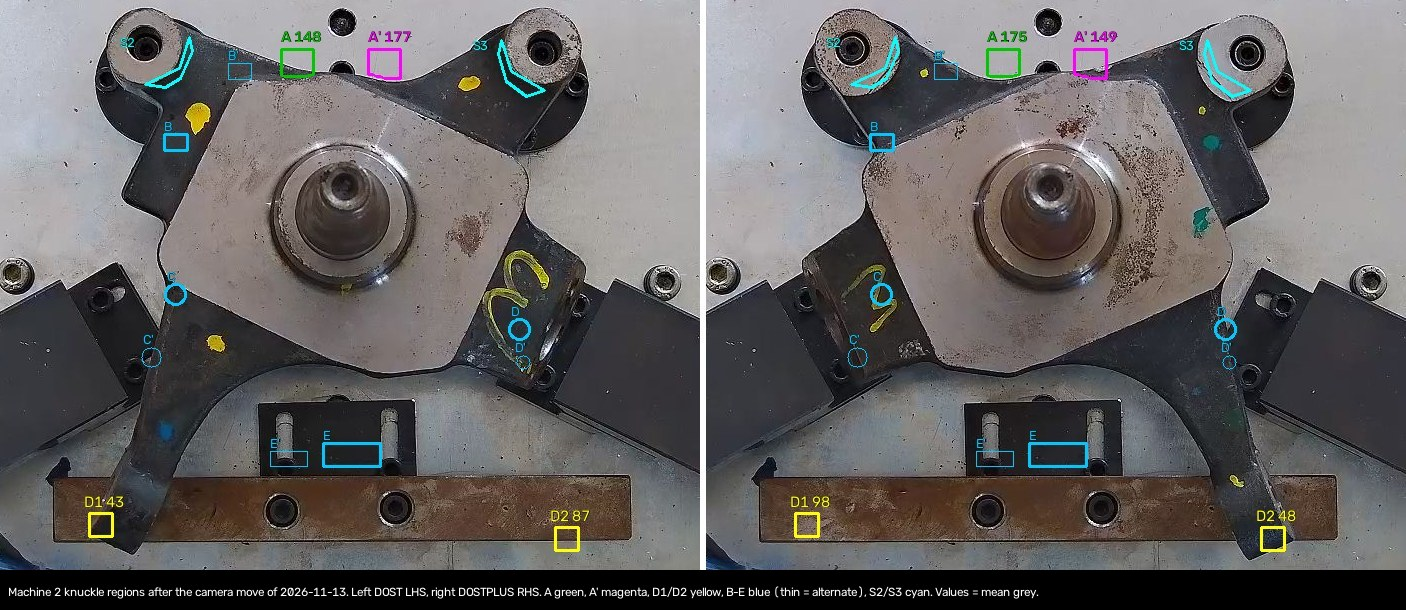
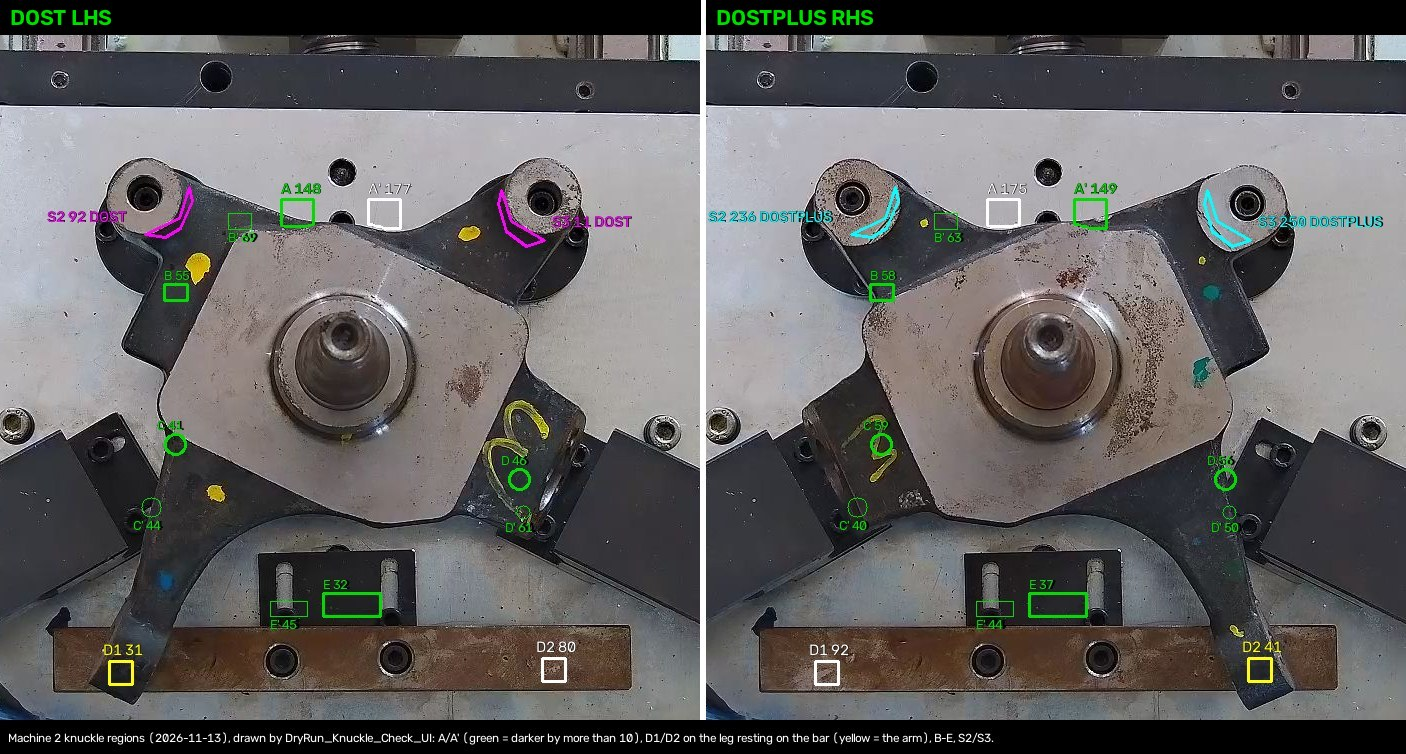
Knuckle side boxes D1 / D2 centred on the leg resting on the bar (CHANGES 95)
Claude-Session: https://claude.ai/code/session_01XjZgL5V1zYPpwxpLAzJzeq

diff --git a/CHANGES_MACHINE2.md b/CHANGES_MACHINE2.md
@@ -2606,3 +2606,20 @@ Architecture items not included (user).
   - **Checked:** driven under Xvfb, 9/9 on each machine (Machine 2: the 20 pictures identified as labelled, the empty
     fixture NEITHER with its reason; Machine 1: its 4 pictures, three times each). Covers the seconds changed during
     the run, a single picture, Stop part-way, an unreadable file reported with the run going on, and saving.
+- **Side boxes D1 / D2 moved to the middle of the leg resting on the bar (follow-up, user):**
+  - **Why they were where they were:** the 3 Nov positions (on the old bar, where the arm lay) moved by the camera
+    transform; no measurement placed them, and D2 ended up near the corner of the arm's tip.
+  - **How the new positions were found:** the leg on the bar was found on every picture by colour (the bar is rusty
+    brown, R-B 31-39; the leg is neutral, R-B about -3..-6), each row filled between the leg's edges, and the area
+    covered on every LHS / RHS picture taken. Each box is centred on its deepest point: (420, 672) and (853, 669),
+    16-17 px from the nearest leg or bar edge.
+  - **Change:** `siemens.vision.knuckle.lhs.crop` 389,663 -> **409,661**, `rhs.crop` 855,677 -> **842,658** (still
+    23 x 23; all three properties files).
+  - **Arm box / bare box:** LHS 30.0-30.9 / 79.2-87.1 (was 37.4-43.6 / 85.1-89.3); RHS 37.8-42.2 / 89.5-94.1 (was
+    44.1-48.9 / 94.1-99.1).
+  - **Smallest difference:** as photographed 49.1 (was 43.9); with the picture moved +/-3 px 46.5 (was 28.2). The
+    empty fixture differs by 9.2 (largest with shifts 13.7), and the contours reject it.
+  - **Checked:** DryRun_CheckKnuckle_Images Machine 2 155/155 (side-box margin 39.1 beyond 10), Machine 1 30/30; the
+    window 9/9; verifier ALL EQUIVALENT. Figure `docs/knuckle_regions_machine2.jpg` redrawn (by the window's own
+    drawing).
+
